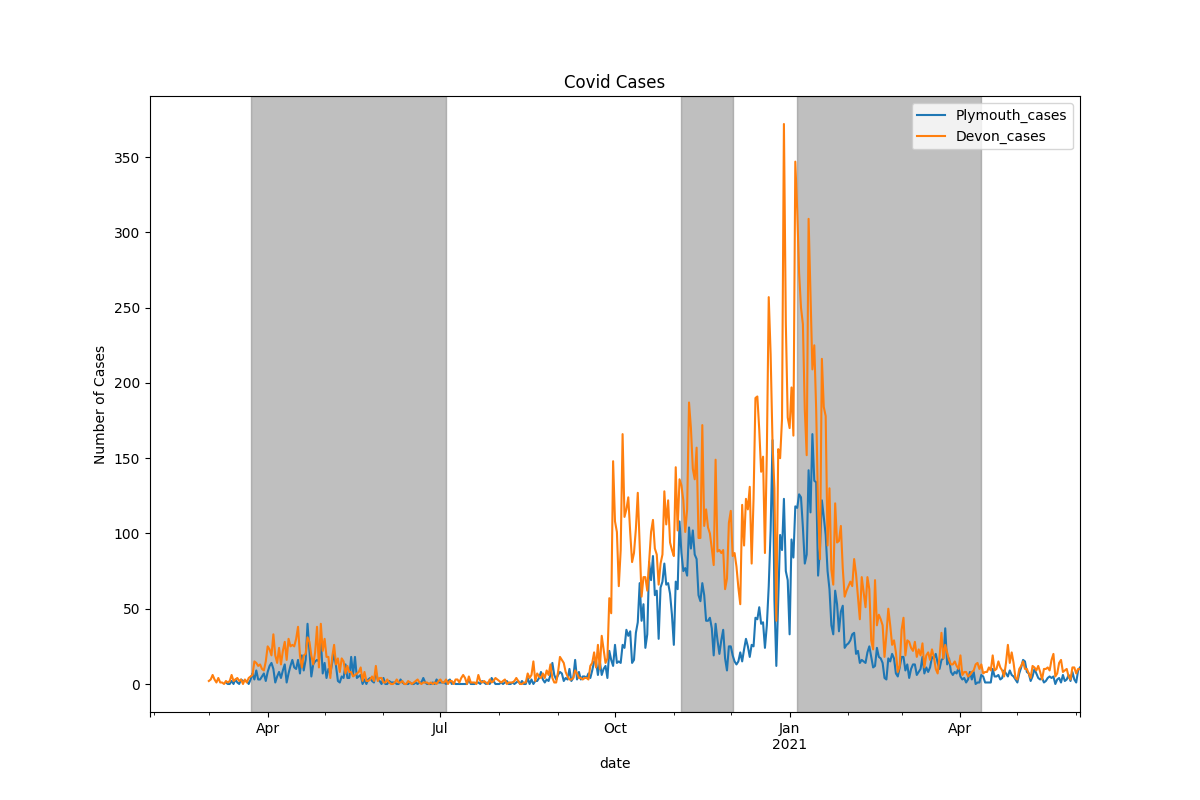
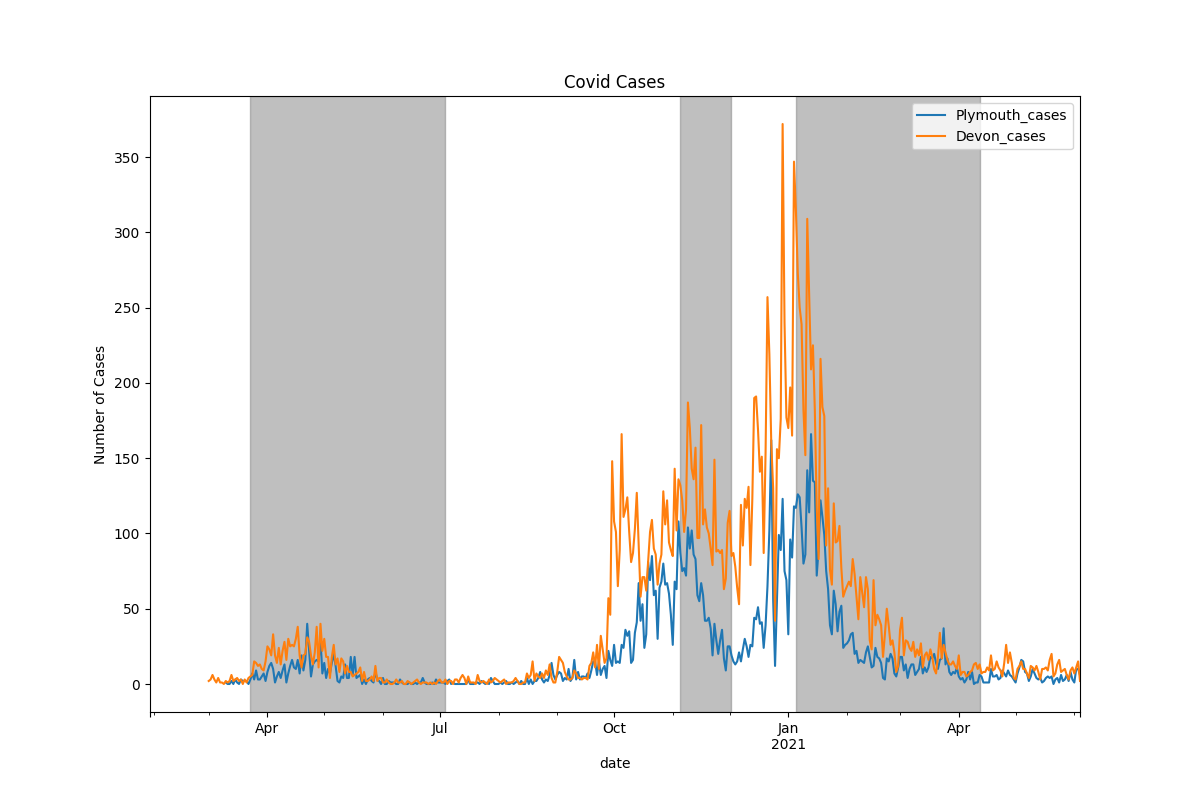
update-data

diff --git a/index.md b/index.md
@@ -7,4 +7,4 @@ Grey sections are used to identify national lockdowns, of various strengths.
 ![Covid Rates Per 100000](images/plymouth_covid_graph_pht.png "Plymouth Covid Graph Per 100000 ")
 
 
-Last updated on: 05 June 2021
+Last updated on: 06 June 2021
